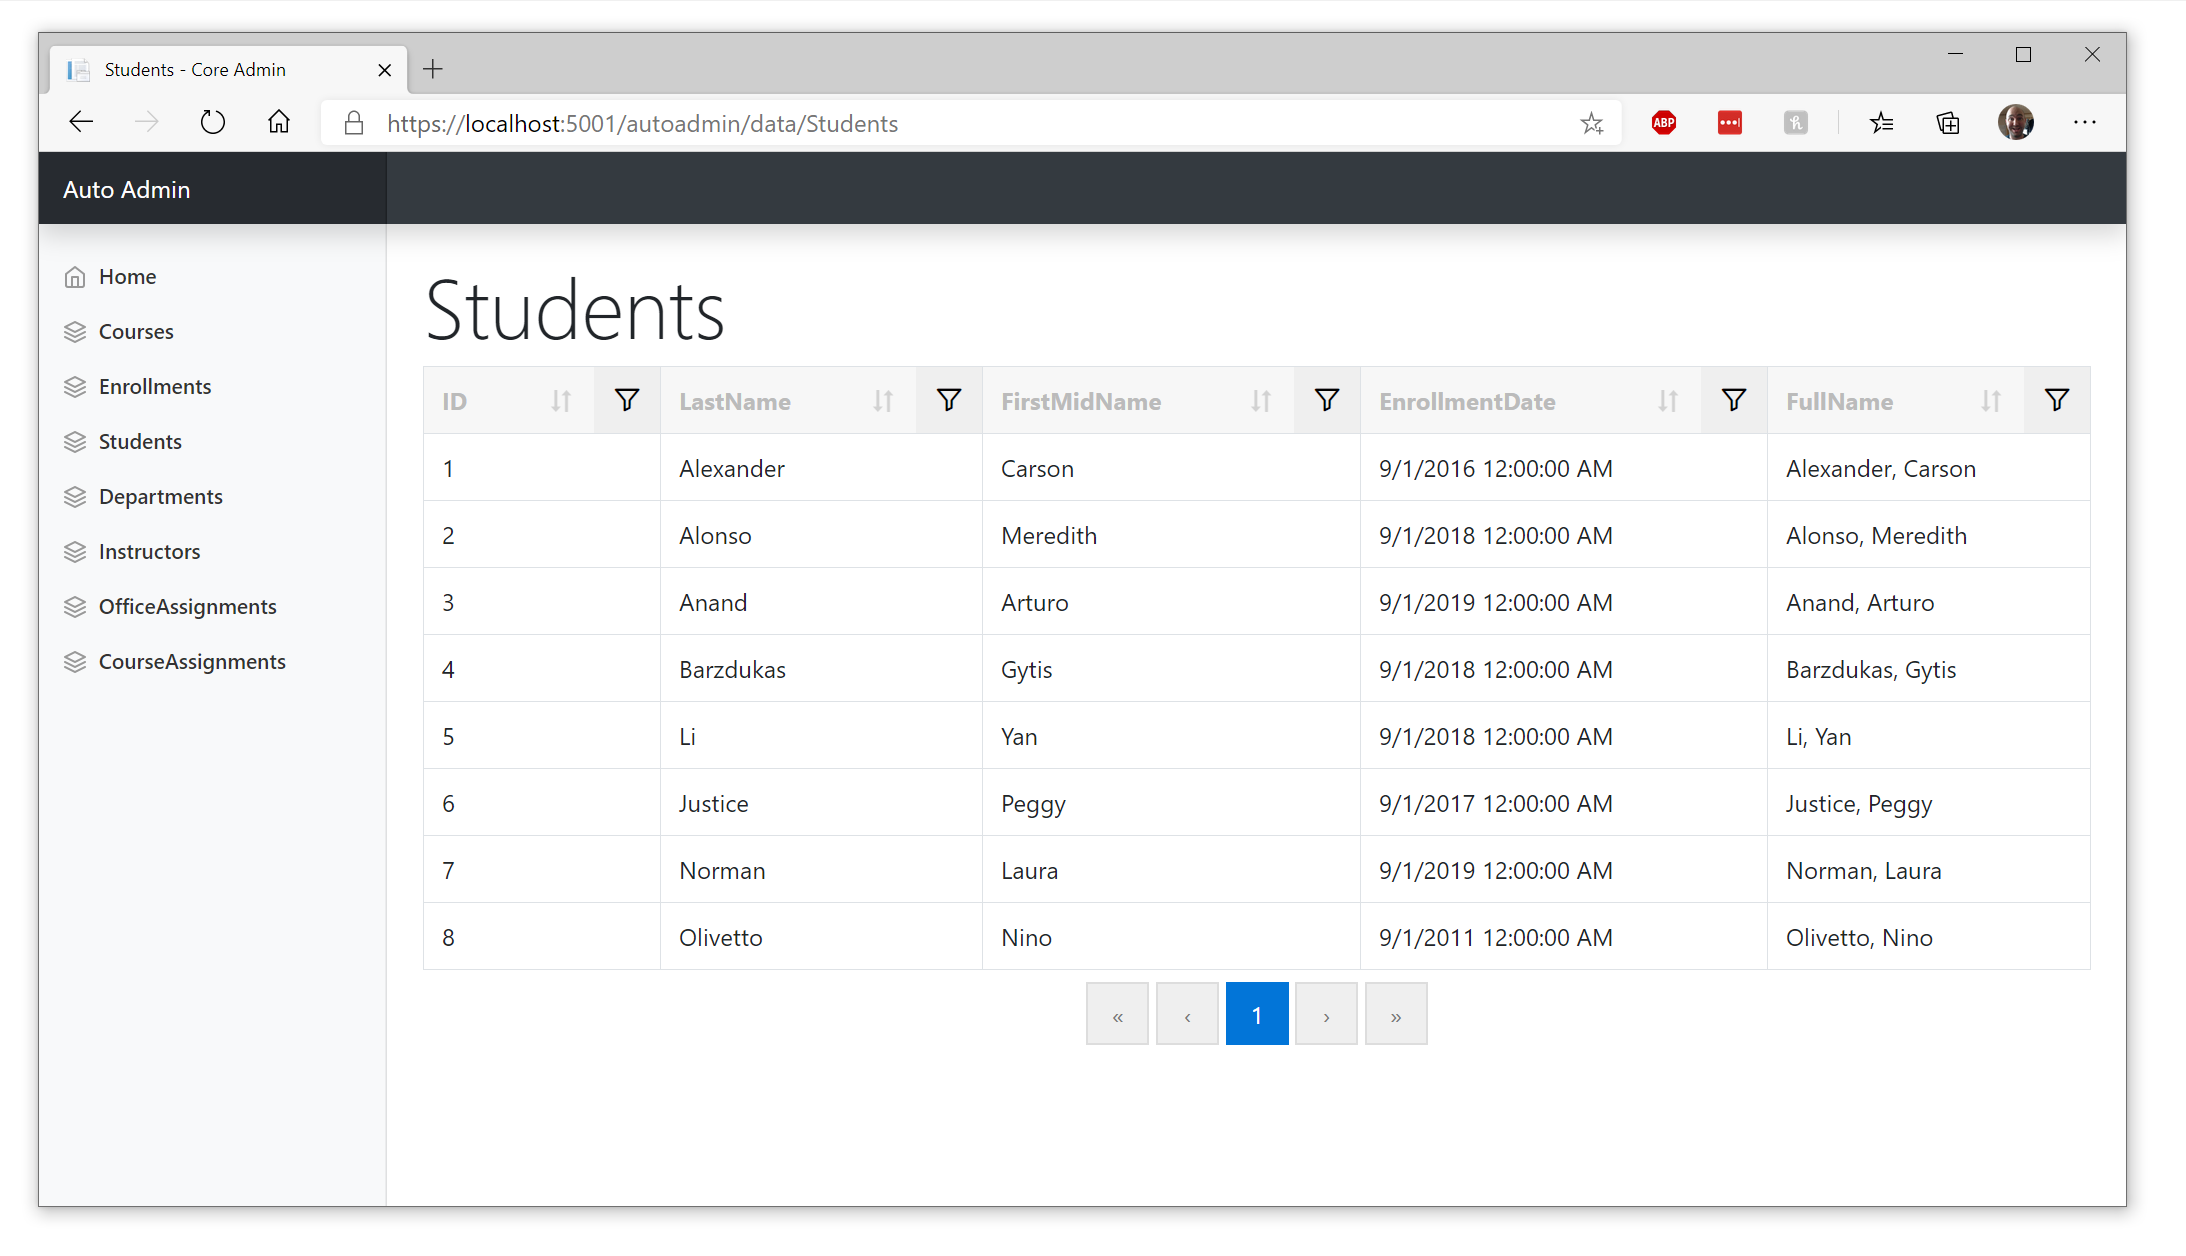
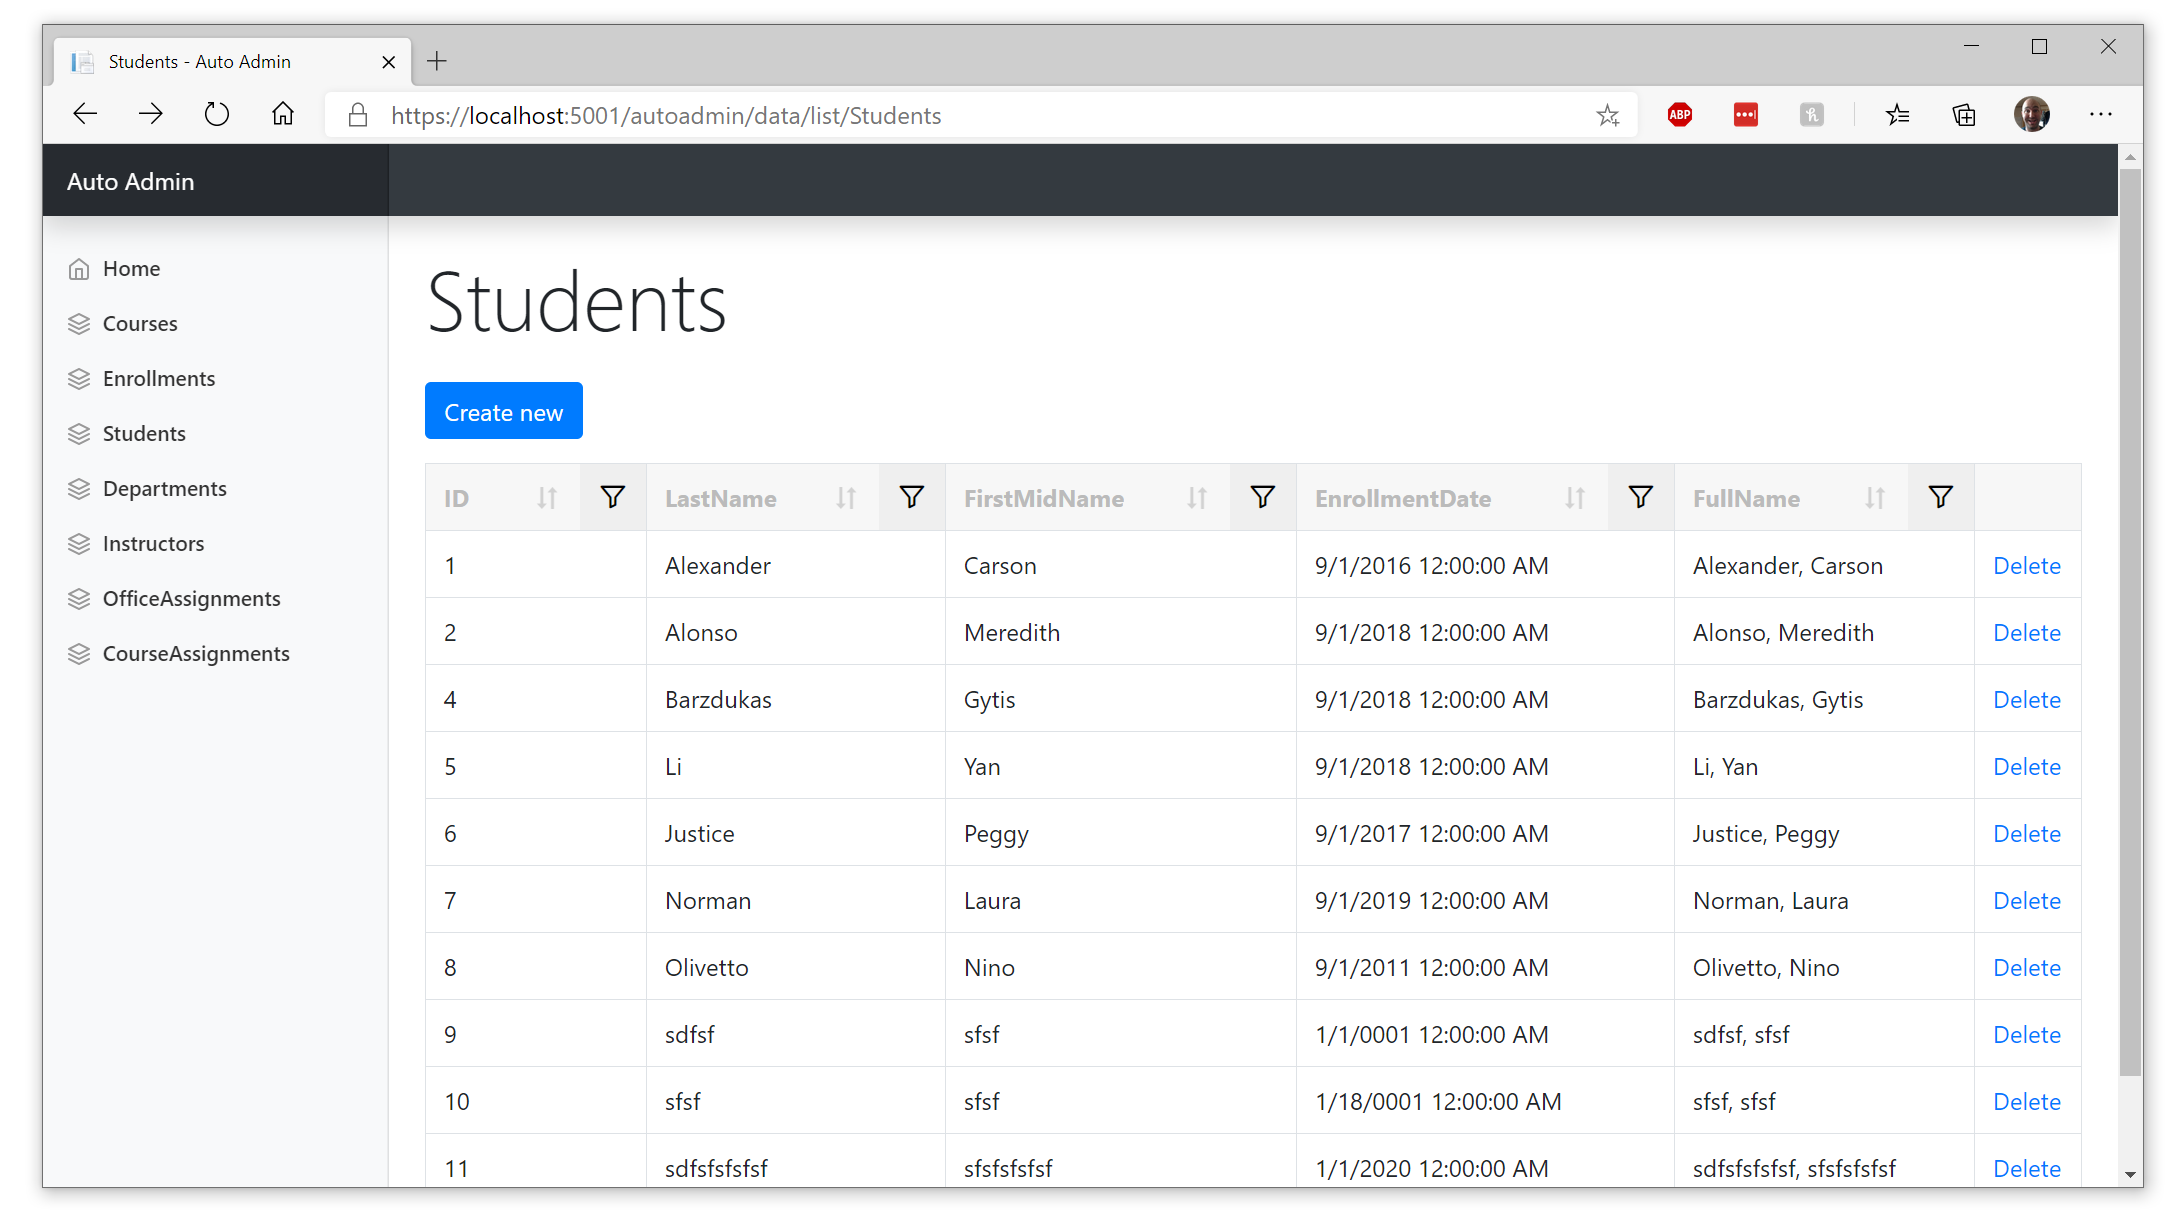
Implemented create functionality

diff --git a/src/DotNetEd.AutoAdmin/Controllers/AutoAdminDataController.cs b/src/DotNetEd.AutoAdmin/Controllers/AutoAdminDataController.cs
@@ -119,9 +119,9 @@ namespace DotNetEd.AutoAdmin.Controllers
 
             var newEntity = System.Activator.CreateInstance(entityType);
 
-            if (TryValidateModel(newEntity))
+            if (await TryUpdateModelAsync(newEntity, entityType, string.Empty))
             {
-                if (await TryUpdateModelAsync(newEntity, entityType, string.Empty))
+                if (TryValidateModel(newEntity))
                 {
                     // updated model with new values
                     dbContextObject.Add(newEntity);
@@ -130,7 +130,22 @@ namespace DotNetEd.AutoAdmin.Controllers
                 }
             }
 
-            return View("Create");
+            ViewBag.DbSetName = dbSetName;
+
+            return View("Create", newEntity);
+        }
+
+        [HttpGet]
+        [Route("create/{dbSetName}")]
+        [IgnoreAntiforgeryToken]
+        public async Task<IActionResult> Create([FromRoute] string dbSetName)
+        {
+            var dbSetValue = GetDbSetValueOrNull(dbSetName, out var dbContextObject, out var entityType);
+
+            var newEntity = System.Activator.CreateInstance(entityType);
+            ViewBag.DbSetName = dbSetName;
+
+            return View(newEntity);
         }
 
         [HttpPost]
